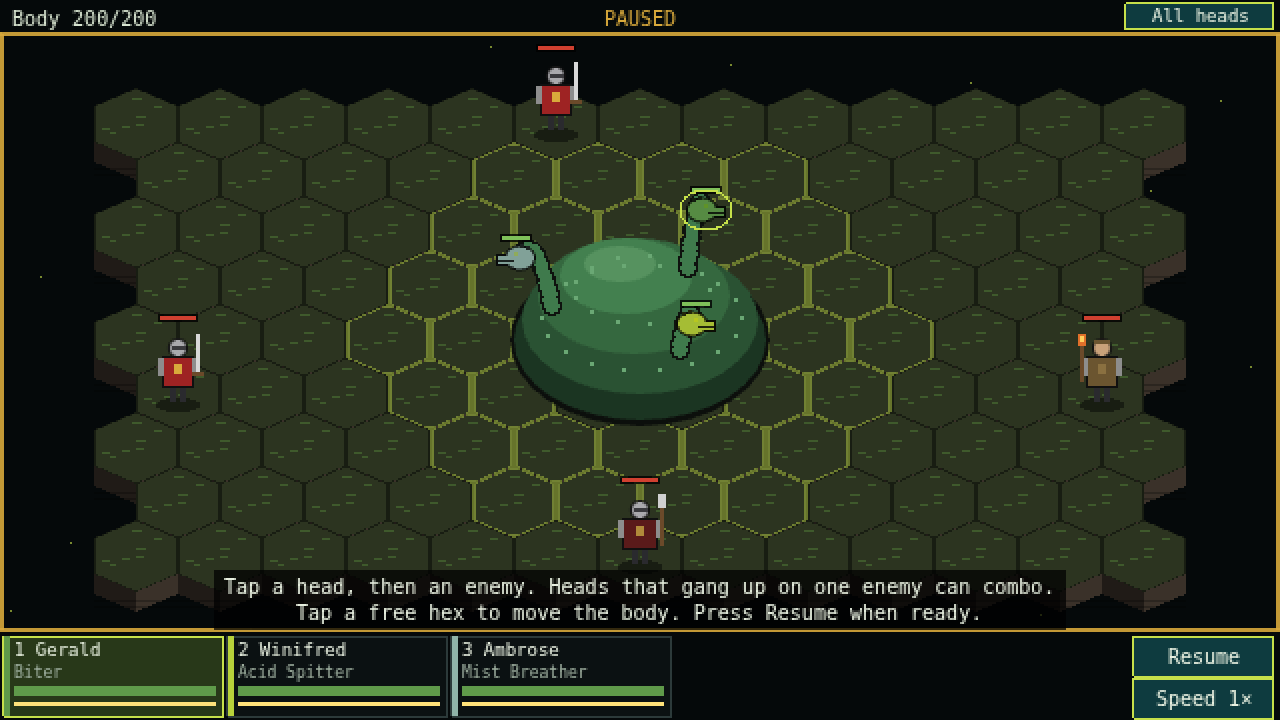
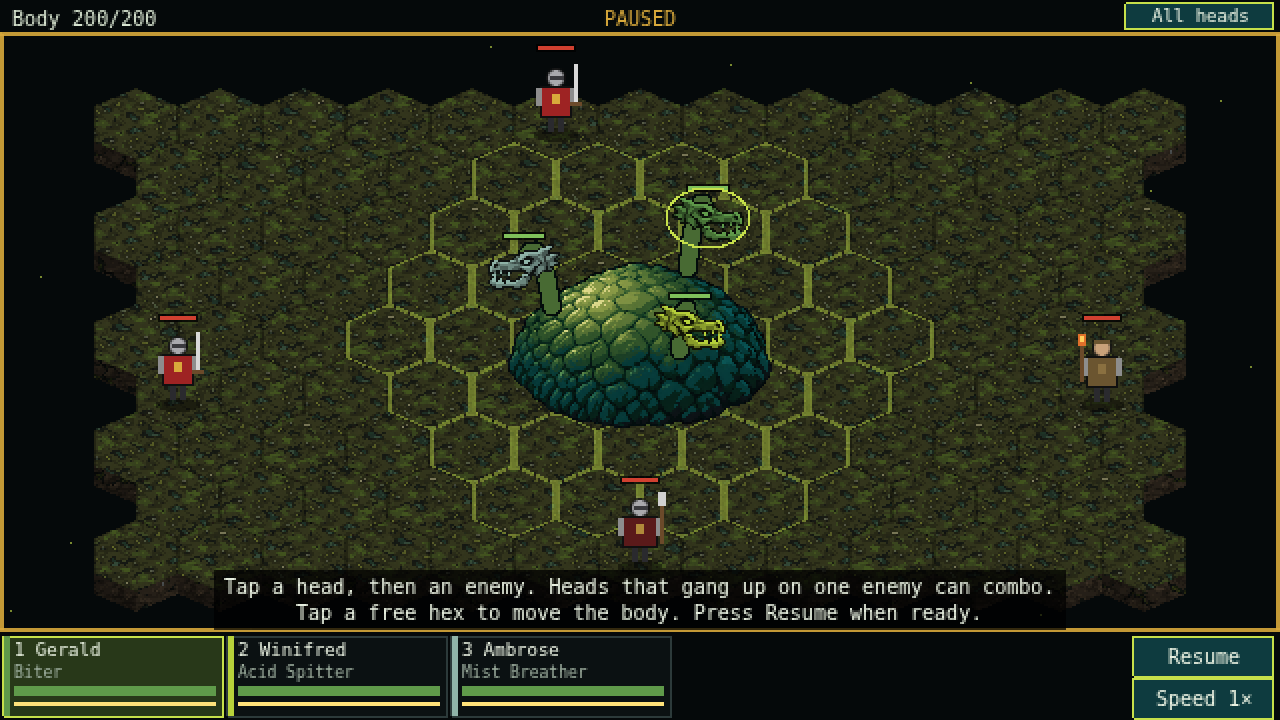
Fit the battle to the new head: jaw snap, recoil, body-coloured necks
The jaw now closes over the teeth (overlap 3 px) and turns around its back
end while a head lunges, so every attack snaps the mouth. A head hit by a
soldier jolts 3 px away from the blow. Necks take the body's outline and
green. HP bar, selection ring and tap area follow the bigger head.

Claude-Session: https://claude.ai/code/session_01APiBdrF99ouqgYC5UcbgGn

diff --git a/src/scenes/BattleScene.ts b/src/scenes/BattleScene.ts
@@ -32,14 +32,24 @@ const DEFAULT_TEST_GROUP = 'burningDetail';
 /** After a combo the battle runs this many times slower for a moment, so the player can see it land. */
 const COMBO_SLOWDOWN = 0.3;
 const COMBO_SLOWDOWN_MS = 350;
-/** A tap this close to a head selects it (screen pixels). */
-const HEAD_TAP_RADIUS = 14;
+/** A tap this close to the middle of a head (with its jaw) selects it (screen pixels). */
+const HEAD_TAP_RADIUS = 18;
 /** Soldier images: how far around their feet a tap still counts as tapping them. */
 const SOLDIER_TAP = { halfWidth: 13, up: 38, down: 4 };
 /** Necks are drawn as overlapping discs, one every few pixels, so long necks stay one smooth tube. */
 const NECK_DISC_SPACING = 2.5;
 /** How fast drawn heads follow where they should be (ms to cover most of the way). */
 const HEAD_FOLLOW_MS = 90;
+/** An attacking head lunges at its target for this long; its jaw opens and snaps shut in the same time. */
+const HEAD_LUNGE_MS = 120;
+/** How far the jaw opens in a bite: degrees it turns around its back end. */
+const JAW_OPEN_DEGREES = 25;
+/** A head that is hit jumps this many pixels away from the blow and comes back. */
+const HEAD_RECOIL_PX = 3;
+const HEAD_RECOIL_MS = 120;
+/** Neck colours, taken from the body art: its outline and a lit green of its scales. */
+const NECK_OUTLINE = 0x030b0b;
+const NECK_FILL = 0x486a33;
 
 // Depths: board, then things on it sorted by how low on the screen they stand, then necks and heads, then UI.
 const DEPTH = { tile: 0, mark: 1, shadow: 2, standing: 10, mist: 40, necks: 50, jaws: 50.5, heads: 51, overlay: 60, text: 70, ui: 100 } as const;
@@ -58,6 +68,9 @@ interface HeadView {
   y: number;
   lungeUntil: number;
   lungeTo: Point;
+  /** Until when the head is jolted by a blow, and where the blow came from. */
+  recoilUntil: number;
+  recoilFrom: Point;
   phase: number;
 }
 
@@ -94,6 +107,8 @@ export class BattleScene extends Phaser.Scene {
   private heads = new Map<string, HeadView>();
   private enemies = new Map<number, EnemyView>();
   private stumpSprites = new Map<number, Phaser.GameObjects.Image>();
+  /** The point of the jaw image it turns around when the mouth opens. */
+  private jawHinge: Point = { x: 0, y: 0 };
   private necks!: Phaser.GameObjects.Graphics;
   private overlay!: Phaser.GameObjects.Graphics;
   private cards!: HeadCards;
@@ -154,6 +169,7 @@ export class BattleScene extends Phaser.Scene {
 
     this.bodySprite = this.add.image(0, 0, 'battle_body');
     this.bodySprite.setOrigin(BODY_FOOT.x / this.bodySprite.width, BODY_FOOT.y / this.bodySprite.height);
+    this.jawHinge = jawHinge(this.textures);
     this.necks = this.add.graphics().setDepth(DEPTH.necks);
     this.overlay = this.add.graphics().setDepth(DEPTH.overlay);
 
@@ -400,7 +416,8 @@ export class BattleScene extends Phaser.Scene {
     for (const head of this.battle.heads) {
       const view = this.heads.get(head.id);
       if (!view) continue;
-      const d = Math.hypot(view.x - at.x, view.y - at.y);
+      const shape = this.headShape(view);
+      const d = Math.hypot(shape.x - at.x, shape.y - at.y);
       if (d <= bestDistance) {
         best = head;
         bestDistance = d;
@@ -468,9 +485,20 @@ export class BattleScene extends Phaser.Scene {
       const base = this.neckBase(body, head.anchorAngle);
       const tint = color(heads.classes[head.classId]?.color ?? '#cccccc');
       const sprite = this.add.image(base.x, base.y, 'battle_head').setDepth(DEPTH.heads).setTint(tint);
-      const jaw = this.add.image(base.x, base.y, 'battle_head_jaw').setOrigin(0.5, 0).setDepth(DEPTH.jaws).setTint(tint);
+      const jaw = this.add.image(base.x, base.y, 'battle_head_jaw').setDepth(DEPTH.jaws).setTint(tint);
+      jaw.setOrigin(this.jawHinge.x / jaw.width, this.jawHinge.y / jaw.height);
       // New heads start at the stump and grow out from there.
-      this.heads.set(head.id, { sprite, jaw, x: base.x, y: base.y, lungeUntil: 0, lungeTo: base, phase: this.heads.size * 1.7 + head.anchorAngle });
+      this.heads.set(head.id, {
+        sprite,
+        jaw,
+        x: base.x,
+        y: base.y,
+        lungeUntil: 0,
+        lungeTo: base,
+        recoilUntil: 0,
+        recoilFrom: base,
+        phase: this.heads.size * 1.7 + head.anchorAngle,
+      });
     }
 
     const enemyIds = new Set(this.battle.enemies.map((e) => e.id));
@@ -597,17 +625,42 @@ export class BattleScene extends Phaser.Scene {
       view.y += (want.y - view.y) * follow;
       let x = view.x;
       let y = view.y;
+      // How far into its bite the head is: 0 at rest, 1 with the mouth wide open, half way through the lunge.
+      let bite = 0;
       if (now < view.lungeUntil) {
         const dx = view.lungeTo.x - x;
         const dy = view.lungeTo.y - y;
         const d = Math.hypot(dx, dy) || 1;
         x += (dx / d) * 6;
         y += (dy / d) * 6;
+        bite = Math.sin((1 - (view.lungeUntil - now) / HEAD_LUNGE_MS) * Math.PI);
       }
+      if (now < view.recoilUntil) {
+        const dx = x - view.recoilFrom.x;
+        const dy = y - view.recoilFrom.y;
+        const d = Math.hypot(dx, dy) || 1;
+        const jolt = HEAD_RECOIL_PX * Math.sin(((view.recoilUntil - now) / HEAD_RECOIL_MS) * Math.PI);
+        x += (dx / d) * jolt;
+        y += (dy / d) * jolt;
+      }
+      x = Math.round(x);
+      y = Math.round(y);
       this.drawNeck(base, { x, y });
-      view.sprite.setPosition(Math.round(x), Math.round(y)).setFlipX(facing < 0);
-      view.jaw.setPosition(Math.round(x), Math.round(y) + view.sprite.height / 2 - JAW_OVERLAP).setFlipX(facing < 0);
+      view.sprite.setPosition(x, y).setFlipX(facing < 0);
+      // The jaw hangs under the head and turns around its back end; mirrored (negative scale) when facing left,
+      // so it still turns around that end. Its image is as wide as the head's, centred under it.
+      view.jaw
+        .setPosition(x + facing * (this.jawHinge.x - view.jaw.width / 2), y + view.sprite.height / 2 - JAW_OVERLAP + this.jawHinge.y)
+        .setScale(facing, 1)
+        .setAngle(facing * bite * JAW_OPEN_DEGREES);
     }
+  }
+
+  /** The middle of a drawn head with its jaw, and how far it reaches from there sideways and up and down. */
+  private headShape(view: HeadView): { x: number; y: number; halfWidth: number; halfHeight: number } {
+    const top = view.y - view.sprite.height / 2;
+    const bottom = view.y + view.sprite.height / 2 - JAW_OVERLAP + view.jaw.height;
+    return { x: view.x, y: (top + bottom) / 2, halfWidth: view.sprite.width / 2, halfHeight: (bottom - top) / 2 };
   }
 
   /** A neck as a chain of segments rising from the body in an arc, thinner towards the head. */
@@ -615,7 +668,7 @@ export class BattleScene extends Phaser.Scene {
     const bend = { x: (from.x + to.x) / 2, y: Math.min(from.y, to.y) - 18 };
     const length = Math.hypot(bend.x - from.x, bend.y - from.y) + Math.hypot(to.x - bend.x, to.y - bend.y);
     const discs = Math.max(8, Math.ceil(length / NECK_DISC_SPACING));
-    for (const [width, fill] of [[5, 0x0e120e], [3.8, 0x3f7a4c]] as const) {
+    for (const [width, fill] of [[5.5, NECK_OUTLINE], [4.3, NECK_FILL]] as const) {
       this.necks.fillStyle(fill);
       for (let i = 0; i <= discs; i++) {
         const t = i / discs;
@@ -718,14 +771,15 @@ export class BattleScene extends Phaser.Scene {
     for (const head of this.battle.heads) {
       const view = this.heads.get(head.id);
       if (!view) continue;
-      hpBar(g, view.x, view.y - 11, 14, head.hp / head.maxHp, 0x7fc05a);
+      const shape = this.headShape(view);
+      hpBar(g, shape.x, shape.y - shape.halfHeight - 4, 20, head.hp / head.maxHp, 0x7fc05a);
       if (!this.selected.has(head.id)) continue;
       g.lineStyle(1, 0xc6e04a);
-      g.strokeEllipse(Math.round(view.x), Math.round(view.y), 26, 20);
+      g.strokeEllipse(Math.round(shape.x), Math.round(shape.y), shape.halfWidth * 2 + 6, shape.halfHeight * 2 + 6);
       const ordered = head.orderTargetId !== null ? this.enemies.get(head.orderTargetId) : undefined;
       if (ordered) {
         g.lineStyle(1, 0xff5030, 0.7);
-        g.lineBetween(view.x, view.y, ordered.feet.x, ordered.feet.y - 16);
+        g.lineBetween(shape.x, shape.y, ordered.feet.x, ordered.feet.y - 16);
       }
     }
     // Regrowth timer under each open stump.
@@ -779,14 +833,14 @@ export class BattleScene extends Phaser.Scene {
     const hitAt = this.hexFeet(event.at);
     if (event.attacker === 'head' && typeof event.attackerId === 'string') {
       const view = this.heads.get(event.attackerId);
-      if (view) Object.assign(view, { lungeUntil: now + 110, lungeTo: { x: hitAt.x, y: hitAt.y - 16 } });
-    }
-    if (event.attacker === 'enemy' && typeof event.attackerId === 'number') {
-      const view = this.enemies.get(event.attackerId);
-      const target = event.targetKind === 'head' ? this.heads.get(event.targetId as string) : undefined;
-      if (view) Object.assign(view, { lungeUntil: now + 120, lungeTo: target ? { x: target.x, y: target.y } : this.bodyCenter() });
+      if (view) Object.assign(view, { lungeUntil: now + HEAD_LUNGE_MS, lungeTo: { x: hitAt.x, y: hitAt.y - 16 } });
     }
     const headHit = event.targetKind === 'head' ? this.heads.get(event.targetId as string) : undefined;
+    if (event.attacker === 'enemy' && typeof event.attackerId === 'number') {
+      const view = this.enemies.get(event.attackerId);
+      if (view) Object.assign(view, { lungeUntil: now + 120, lungeTo: headHit ? { x: headHit.x, y: headHit.y } : this.bodyCenter() });
+      if (view && headHit) Object.assign(headHit, { recoilUntil: now + HEAD_RECOIL_MS, recoilFrom: { x: view.feet.x, y: view.feet.y - 20 } });
+    }
     const sprite =
       event.targetKind === 'enemy' ? this.enemies.get(event.targetId as number)?.sprite : event.targetKind === 'head' ? headHit?.sprite : this.bodySprite;
     if (sprite) this.flash(sprite);
@@ -851,6 +905,15 @@ export class BattleScene extends Phaser.Scene {
     );
     panel.add([box, title, button]);
   }
+}
+
+/** The point the lower jaw turns around: the top of its back end (its leftmost drawn column), in image pixels. */
+function jawHinge(textures: Phaser.Textures.TextureManager): Point {
+  const { width, height } = textures.getFrame('battle_head_jaw');
+  for (let x = 0; x < width; x++) {
+    for (let y = 0; y < height; y++) if ((textures.getPixelAlpha(x, y, 'battle_head_jaw') ?? 0) > 0) return { x, y };
+  }
+  return { x: width / 2, y: 0 }; // an empty jaw (the placeholder head has its jaw drawn in)
 }
 
 function hpBar(g: Phaser.GameObjects.Graphics, cx: number, y: number, width: number, share: number, fill: number): void {

diff --git a/src/assets/battleArt.ts b/src/assets/battleArt.ts
@@ -14,5 +14,8 @@ export const BODY_FOOT = { x: 66, y: 66 };
 /** Soldiers stand with their feet this many pixels below the centre of their hex. */
 export const FEET_BELOW_HEX_CENTER = 5;
 
-/** The lower jaw (battle_head_jaw) hangs under the head image, both centred on the same point: its top edge overlaps the head's bottom edge by this many pixels. */
-export const JAW_OVERLAP = 1;
+/**
+ * The lower jaw (battle_head_jaw) hangs under the head image, both centred on the same point: its top edge overlaps
+ * the head's bottom edge by this many pixels. 3 closes the mouth of the first GPT head: the teeth interlock.
+ */
+export const JAW_OVERLAP = 3;

diff --git a/docs/HANDOFF.md b/docs/HANDOFF.md
@@ -11,7 +11,7 @@ Stan na 2026-10-03. Ten plik streszcza dotychczasową pracę, żeby następna se
 
 - Zrobione: **M0, M1, M1b, M2b** (sekcja 15 w `GAME_DESIGN.md`).
 - **M2b** (podziemia) jest wdrożony i czeka na playtest Piotra.
-- 2026-10-03 Piotr zmienił sposób pracy: grafika będzie z GPT, animacje najpierw w kodzie. Zasady są już w `CLAUDE.md`. Plan grafiki (sekcja 3.2) Piotr zatwierdził tego samego dnia i potok jest zbudowany; **czeka na pierwszą partię 5 obrazków z GPT**.
+- 2026-10-03 Piotr zmienił sposób pracy: grafika będzie z GPT, animacje najpierw w kodzie. Zasady są już w `CLAUDE.md`. Plan grafiki (sekcja 3.2) Piotr zatwierdził tego samego dnia i potok jest zbudowany. Wieczorem przyszła cała pierwsza partia (21 obrazków) i jest w grze; **czeka na uwagi Piotra**.
 - Następny etap gry to **M2a** (głowy), ale dopiero gdy Piotr skończy je projektować. Nie budować systemu głów bez niego.
 
 ## 2. Co zrobione
@@ -49,7 +49,14 @@ Stan na 2026-10-03. Ten plik streszcza dotychczasową pracę, żeby następna se
 
 ### 3.2 Grafika i animacje: plan z 2026-10-03, zatwierdzony
 
-**Zrobione 2026-10-03 (w projekcie Hydra w aplikacji Claude):** prompty (`docs/ART_PROMPTS.md`, punkt 6), skrypt `npm run art` (punkty 2, 3 i 9; `scripts/artImport.ts`), cięcie heksów z tekstur przy starcie gry (punkt 5; `src/assets/terrain.ts`), żuchwa jako osobny obrazek pod głową (bez kłapania), `docs/ANIMATIONS.md` (punkt 8) i `.gitignore` (punkt 10). Kąt 45° i portret 128×160 przyjęte jak w planie. Cały proces sprawdzony na sztucznych obrazkach: import, gra, zrzuty, smoke. Zostało: paleta z okładki (punkt 4, gdy przyjdzie okładka) i dopasowanie liczb (`BODY_FOOT`, `JAW_OVERLAP`, rozmiar głowy) po pierwszej prawdziwej partii.
+**Zrobione 2026-10-03 (w projekcie Hydra w aplikacji Claude):** prompty (`docs/ART_PROMPTS.md`, punkt 6), skrypt `npm run art` (punkty 2, 3 i 9; `scripts/artImport.ts`), cięcie heksów z tekstur przy starcie gry (punkt 5; `src/assets/terrain.ts`), żuchwa jako osobny obrazek pod głową (bez kłapania), `docs/ANIMATIONS.md` (punkt 8) i `.gitignore` (punkt 10). Kąt 45° i portret 128×160 przyjęte jak w planie. Cały proces sprawdzony na sztucznych obrazkach: import, gra, zrzuty, smoke. Zostało: paleta z okładki (punkt 4, gdy przyjdzie okładka).
+
+**Pierwsza partia, 2026-10-03 wieczorem:** Piotr zrobił od razu wszystkie 21 obrazków (12 tekstur gruntu, 6 skał, tułów, głowa z żuchwą, portret) w Codexie (generator obrazków GPT) i wrzucił je do `art/raw/` razem ze swoimi promptami (`art/raw/generation-*.txt`). Import przeszedł bez ostrzeżeń. Po zrzutach:
+- głowa powiększona z 20×14 do 36×18 (żuchwa 36×9): GPT narysował ją w ok. 43×21 własnych pikseli i przy 20 px zostawał szum;
+- `JAW_OVERLAP` 3 (zęby się zazębiają, pysk zamknięty), `BODY_FOOT` bez zmian;
+- szyje w kolorach tułowia (obrys #030b0b, wypełnienie #486a33);
+- kłapanie żuchwą przy ataku i odrzut głowy przy trafieniu (punkt 8, `docs/ANIMATIONS.md`).
+Portret jest w grze, ale żadna scena go jeszcze nie pokazuje (dialogi przyjdą z późniejszym etapem).
 
 Plan:
 
@@ -111,7 +118,7 @@ Podjęte przy budowie, nie ma ich w `GAME_DESIGN.md`. Liczby leżą w `src/data/
 
 **Czekają na Piotra:**
 1. Wrażenia z playtestu M2b: mapa, kapliczki, leże, nowe biomy.
-2. Pierwsza partia 5 obrazków z GPT (prompty 1–5 w `docs/ART_PROMPTS.md`).
+2. Uwagi do pierwszej partii grafik, już w grze (np. czy sól w Salt Mines nie jest za jasna, rozmiar głów).
 3. Okładka gry (key art) w `art/raw/`, z której powstanie paleta.
 4. Projekt głów do M2a. Powstanie w rozmowie w projekcie Hydra.
 
@@ -130,7 +137,7 @@ Podjęte przy budowie, nie ma ich w `GAME_DESIGN.md`. Liczby leżą w `src/data/
 
 ## 5. Znane problemy i braki
 
-- Cała grafika jest zastępcza, rysowana w kodzie.
+- Grafika z GPT jest na terenie (mapa i bitwa), tułowiu i głowach hydry. Reszta jest jeszcze zastępcza, rysowana w kodzie: ludzie Zakonu, obiekty i hydra na mapie, ekran tytułowy.
 - Nie ma zapisu gry: odświeżenie strony zaczyna run od nowa. `CLAUDE.md` wymaga zapisu w localStorage z numerem wersji formatu, w planie jest w M6.
 - Seed widać tylko z `?debug=1`. Menu pauzy, w którym miał być (§9), jeszcze nie ma.
 - Świadomie odłożone na późniejsze etapy:
@@ -141,12 +148,11 @@ Podjęte przy budowie, nie ma ich w `GAME_DESIGN.md`. Liczby leżą w `src/data/
   - nie ma odwrotu z bitwy;
   - umiejętności Q/W/E, doświadczenie, specjalizacje, przypadłości, klasy Screamer, Glutton i The Spare oraz combosy poza trzema pierwszymi przyjdą z M2a.
 - Balans (`docs/BALANCE.md`): najsilniejsza grupa (Pyre Procession) pokonuje hydrę bez rozkazów w 63% bitew, a przy sensownych rozkazach w 6%. Wszystkie liczby są robocze.
-- Głowa w bitwie ma 20×14 px, więc z grafiki GPT zostanie mało szczegółów. Po pierwszym imporcie trzeba zdecydować, czy ją powiększyć.
 
 ## 6. Następne kroki
 
 1. Poczekać na odpowiedzi Piotra (sekcja 4).
-2. Gdy przyjdzie pierwsza partia: obrazki do `art/raw/` pod nazwami z promptów, `npm run art`, zrzuty, poprawić liczby (3.2), wdrożyć, pokazać. Potem kłapanie i odrzut w kodzie (`docs/ANIMATIONS.md`).
+2. Pierwsza partia jest w grze. Dalej z `docs/ANIMATIONS.md` (stan „do zrobienia”): oddech i drgnięcie tułowia, ścięcie głowy. Kolejne grafiki: ludzie Zakonu, obiekty i hydra na mapie, tło tytułu (prompty trzeba dopisać do `docs/ART_PROMPTS.md`).
 3. Gdy przyjdzie okładka: propozycja palety (próbnik i okładka w palecie), po akceptacji zapis w repo.
 4. Gdy Piotr napisze, że wrzucił grafiki: `git pull`, `npm run art`, obejrzeć wynik w grze, wdrożyć, pokazać.
 5. Zatwierdzone decyzje od razu wpisywać do `GAME_DESIGN.md`, a budować w swoim etapie.

diff --git a/docs/ANIMATIONS.md b/docs/ANIMATIONS.md
@@ -8,7 +8,7 @@ Jak czytać tabele:
 - **Klatki, rozmiar, fps:** tylko dla animacji z klatek. Rozmiar to jedna klatka w pikselach gry.
 - **Zaczepienie:** punkt obrazka, który stoi w miejscu postaci (ten sam we wszystkich klatkach).
 - **Kierunki:** wszyscy patrzą w prawo, gra odbija ich w lewo. Inne kierunki tylko wtedy, gdy postanowimy inaczej.
-- **Stan:** `jest` (działa w grze), `z grafiką` (zrobimy, gdy przyjdzie docelowy obrazek, żeby nie robić tego dwa razy), `później` (z etapem, który tego potrzebuje).
+- **Stan:** `jest` (działa w grze), `z grafiką` (zrobimy, gdy przyjdzie docelowy obrazek, żeby nie robić tego dwa razy), `do zrobienia` (obrazek już jest, animacja w kolejnym kroku), `później` (z etapem, który tego potrzebuje).
 
 Klatki jednej animacji: osobne pliki `art/raw/<klucz>_frame1.png`, `_frame2.png`... albo kilka figur obok siebie na jednym obrazku. Skrypt `npm run art` przycina wszystkie klatki jednym wspólnym prostokątem, żeby postać nie skakała, i składa je w jeden pasek.
 
@@ -18,8 +18,8 @@ Klatki jednej animacji: osobne pliki `art/raw/<klucz>_frame1.png`, `_frame2.png`
 |---|---|---|---|---|---|---|---|
 | Przesuwanie po planszy | kod: ślizg z heksu na heks | – | 132×110 | – | środek podstawy (66, 66) | brak (bez przodu i tyłu) | jest |
 | Mignięcie przy trafieniu | kod: 70 ms na biało | – | | | | | jest |
-| Oddech | kod: lekkie spłaszczanie i rozciąganie w pionie, ok. 3 s na cykl | – | | | | | z grafiką |
-| Drgnięcie przy mocnym ciosie | kod: odrzut o 1–2 px od ciosu i powrót | – | | | | | z grafiką |
+| Oddech | kod: lekkie spłaszczanie i rozciąganie w pionie, ok. 3 s na cykl | – | | | | | do zrobienia |
+| Drgnięcie przy mocnym ciosie | kod: odrzut o 1–2 px od ciosu i powrót | – | | | | | do zrobienia |
 
 ## Głowy: battle_head i battle_head_jaw
 
@@ -27,17 +27,17 @@ Jeden szary obrazek dla wszystkich klas, gra barwi go kolorem klasy. Żuchwa to 
 
 | Animacja | Jak | Klatki | Rozmiar | fps | Zaczepienie | Kierunki | Stan |
 |---|---|---|---|---|---|---|---|
-| Kołysanie w spoczynku | kod: wolne falowanie (ok. 2 px) | – | głowa 20×14, żuchwa 20×7 | – | środek głowy; żuchwa wisi pod nią | w prawo, odbicie w lewo | jest |
-| Wypad przy ataku | kod: skok o 6 px w stronę celu na 110 ms | – | | | | | jest |
+| Kołysanie w spoczynku | kod: wolne falowanie (ok. 2 px) | – | głowa 36×18, żuchwa 36×9 | – | środek głowy; żuchwa wisi pod nią, zachodzi na głowę o 3 px | w prawo, odbicie w lewo | jest |
+| Wypad przy ataku | kod: skok o 6 px w stronę celu na 120 ms | – | | | | | jest |
 | Mignięcie przy trafieniu | kod: 70 ms na biało | – | | | | | jest |
 | Wyrastanie z kikuta | kod: nowa głowa startuje z kikuta i płynie na miejsce | – | | | | | jest |
-| Kłapanie przy ataku | kod: żuchwa obraca się wokół tylnego końca (ok. 25°) i wraca, ok. 120 ms | – | | | zawias na lewym końcu żuchwy | | z grafiką |
-| Odrzut przy trafieniu | kod: głowa odskakuje o 2–3 px od ciosu | – | | | | | z grafiką |
-| Ścięcie | kod: głowa spada i znika, krótkie mignięcie kikuta | – | | | | | z grafiką |
+| Kłapanie przy ataku | kod: w czasie wypadu żuchwa obraca się o 25° wokół tylnego końca i wraca (120 ms); przy każdym ataku, też przy pluciu i zionięciu | – | | | zawias na lewym końcu żuchwy (gra sama go znajduje) | | jest |
+| Odrzut przy trafieniu | kod: głowa odskakuje o 3 px od ciosu i wraca (120 ms) | – | | | | | jest |
+| Ścięcie | kod: głowa spada i znika, krótkie mignięcie kikuta | – | | | | | do zrobienia |
 
 ## Szyje
 
-Rysowane w całości w kodzie: łańcuch nakładających się krążków po łuku od tułowia do głowy, cieńszy przy głowie. Ruszają się razem z głową. Stan: `jest`. Gdy przyjdzie grafika hydry, kolor i obrys szyi dopasujemy do tułowia (dwa kolory w kodzie, bez obrazka).
+Rysowane w całości w kodzie: łańcuch nakładających się krążków po łuku od tułowia do głowy, cieńszy przy głowie. Ruszają się razem z głową. Kolory wzięte z tułowia: obrys #030b0b i zielone wypełnienie #486a33 (`NECK_OUTLINE`, `NECK_FILL` w `src/scenes/BattleScene.ts`). Stan: `jest`.
 
 ## Ludzie Zakonu: battle_enemy_manAtArms, battle_enemy_headhunter, battle_enemy_torchbearer
 
